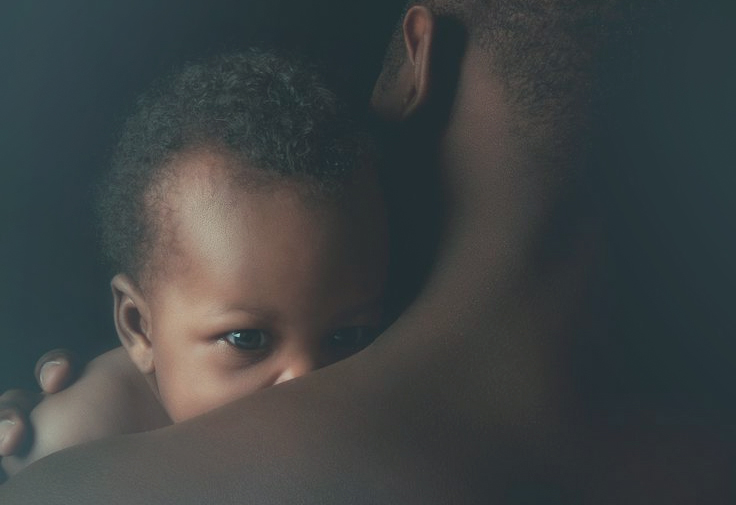
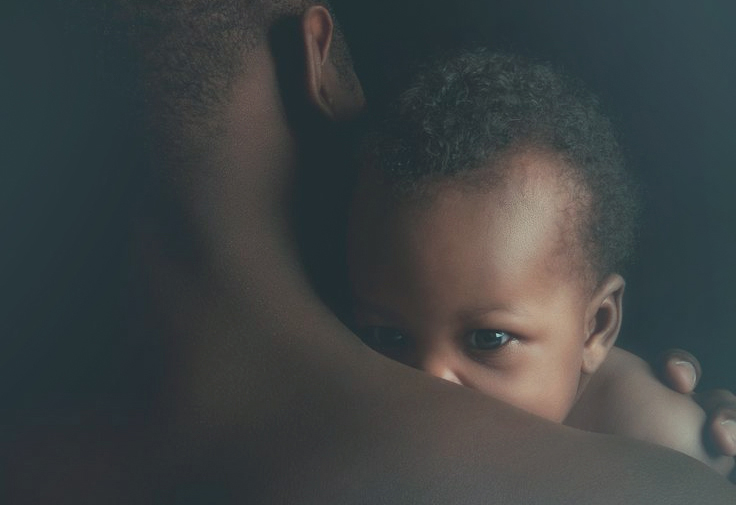
another update

diff --git a/css/styles.css b/css/styles.css
@@ -753,6 +753,7 @@ footer .logo {
 
 .indexHero1 {
 	background-image: url("../images/indexDad.jpg");
+	background-position: bottom;
 }
 
 .aboutHero1  {
@@ -1053,6 +1054,10 @@ MEDIA QUERIES
 @media only screen and (min-width: 1400px){
 	.hero3  {
 		height: 500px;
+	}
+
+	.indexHero1 {
+		background-position: center;
 	}
 }
 
